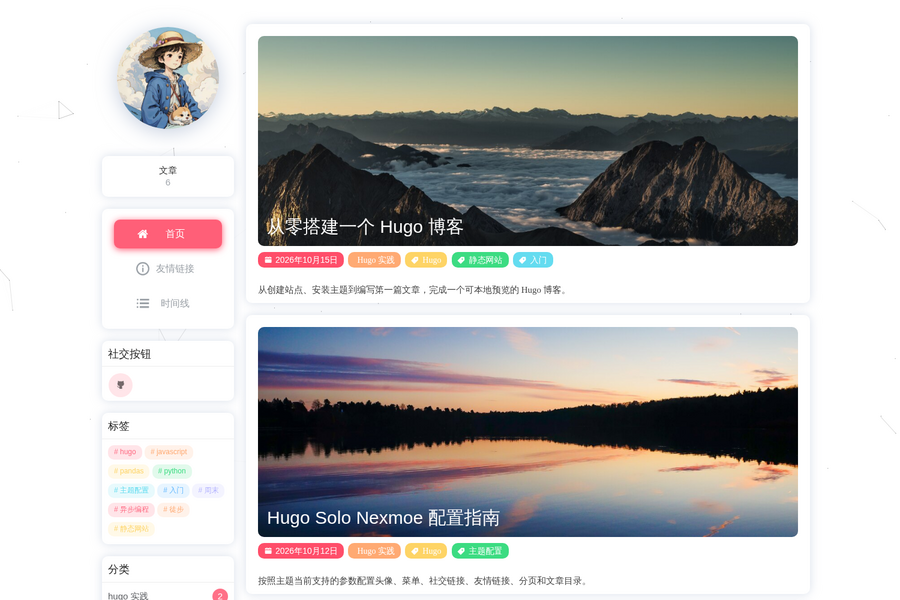
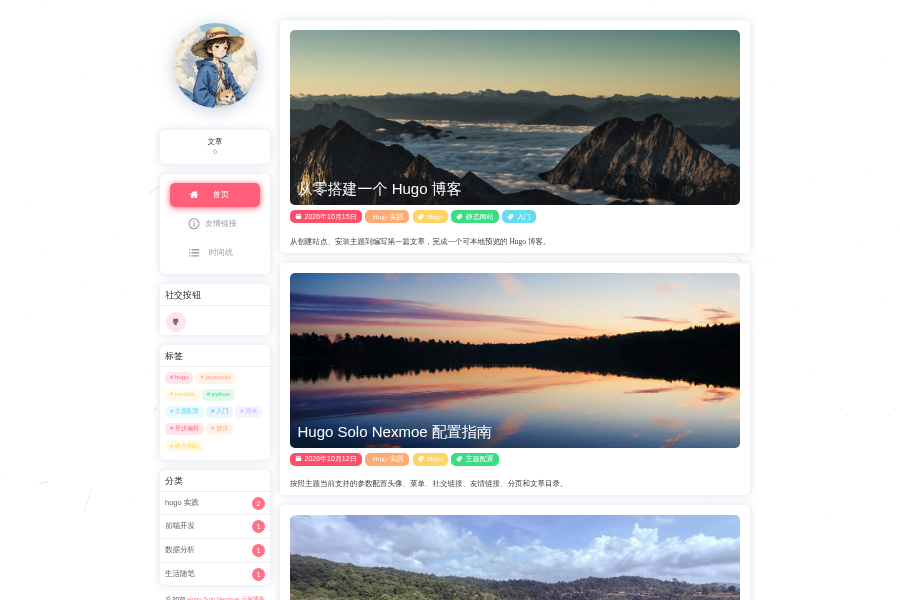
docs: improve theme thumbnail framing

diff --git a/docs/superpowers/plans/2026-10-19-theme-preview-screenshots.md b/docs/superpowers/plans/2026-10-19-theme-preview-screenshots.md
@@ -4,7 +4,7 @@
 
 **Goal:** Replace both theme preview PNGs with current, PR-compliant native-viewport captures of the deployed example site.
 
-**Architecture:** Use installed headless Google Chrome to capture the live home page at 1500 × 1000, then proportionally resize that complete desktop composition to 900 × 600. Wait five seconds of virtual time for lazy images, the external avatar, fonts, and Canvas initialization, then validate dimensions and inspect both images before committing.
+**Architecture:** Use installed headless Google Chrome for a 1500 × 1000 main capture and an 1800 × 1200 desktop virtual viewport rendered at device scale 0.5 for the 900 × 600 thumbnail. Wait five seconds of virtual time for lazy images, the external avatar, fonts, and Canvas initialization, then validate dimensions and inspect both images before committing.
 
 **Tech Stack:** Google Chrome headless mode, ImageMagick `identify`, Hugo demo on GitHub Pages, Git.
 
@@ -13,7 +13,7 @@
 ## File Structure
 
 - Replace `images/screenshot.png` with a 1500 × 1000 desktop capture.
-- Replace `images/tn.png` with a 900 × 600 proportional copy of the complete desktop capture.
+- Replace `images/tn.png` with a 900 × 600 desktop-layout capture showing two complete posts and the beginning of the third.
 - Do not create scripts or retain Chrome profile/cache data in the repository.
 
 ### Task 1: Capture the current deployed homepage
@@ -65,15 +65,26 @@ google-chrome \
 
 Expected: Chrome exits successfully and writes a page-only PNG without browser chrome.
 
-- [ ] **Step 4: Resize the complete desktop capture to 900 × 600**
+- [ ] **Step 4: Capture the desktop-layout 900 × 600 thumbnail**
 
 Run:
 
 ```bash
-convert images/screenshot.png -filter Lanczos -resize 900x600 images/tn.png
+preview_profile_small="$(mktemp -d /tmp/hugo-preview-small.XXXXXX)"
+google-chrome \
+  --headless=new \
+  --no-sandbox \
+  --disable-gpu \
+  --hide-scrollbars \
+  --force-device-scale-factor=0.5 \
+  --window-size=1800,1200 \
+  --virtual-time-budget=5000 \
+  --user-data-dir="$preview_profile_small" \
+  --screenshot="$(pwd)/images/tn.png" \
+  "https://zhangzhuo0705.github.io/hugo-solo-nexmoe/"
 ```
 
-Expected: ImageMagick writes a 900 × 600 PNG with the same complete composition as the desktop screenshot.
+Expected: Chrome writes a 900 × 600 PNG that retains the desktop layout and shows more vertical content than a direct resize of the main screenshot.
 
 - [ ] **Step 5: Validate format, dimensions, aspect ratio, and README reference**
 
@@ -91,7 +102,7 @@ Expected: every command exits with status 0.
 
 - [ ] **Step 6: Inspect both images visually**
 
-Open `images/screenshot.png` and `images/tn.png` at original detail. Confirm both show the current avatar, sidebar, landscape covers, first two article cards, current metadata, and theme navigation; and contain no placeholder blocks, old titles, browser chrome, clipping, distortion, or loading failures.
+Open `images/screenshot.png` and `images/tn.png` at original detail. Confirm the thumbnail shows the current avatar, complete sidebar, first two complete article cards, and the beginning of the third; and contains no placeholder blocks, old titles, browser chrome, distortion, or loading failures.
 
 - [ ] **Step 7: Review and commit the focused diff**
 

diff --git a/docs/superpowers/specs/2026-10-19-theme-preview-screenshots-design.md b/docs/superpowers/specs/2026-10-19-theme-preview-screenshots-design.md
@@ -19,22 +19,23 @@ mockups, watermarks, and added labels are excluded.
 
 ## Output Files
 
-Create one native desktop capture and one proportional derivative:
+Create two desktop-layout captures with different virtual viewports:
 
 - `images/screenshot.png`: 1500 × 1000 pixels
-- `images/tn.png`: 900 × 600 pixels, resized from the desktop capture
+- `images/tn.png`: 900 × 600 pixels, rendered from an 1800 × 1200 virtual viewport at a 0.5 device scale factor
 
-Both files use the required 3:2 aspect ratio. The thumbnail is downscaled from
-the complete 1500 × 1000 desktop screenshot so it retains the sidebar, avatar,
-and first two article cards instead of switching to the narrower responsive
-layout and showing only the first article.
+Both files use the required 3:2 aspect ratio. The larger virtual viewport keeps
+the desktop sidebar, avatar, and readable article cards while fitting the first
+two complete posts and the beginning of the third into the thumbnail. It avoids
+both the mobile single-card framing and the illegible whole-page overview.
 
 ## Capture Method
 
-Use an installed headless Chromium-compatible browser to capture the page at
-1500 × 1000. Disable browser chrome, wait for network activity to settle, and
-allow time for the Canvas background and lazy-loaded images. Use ImageMagick to
-resize that PNG proportionally to 900 × 600 without cropping or distortion.
+Use an installed headless Chromium-compatible browser for both captures. The
+main image uses a 1500 × 1000 viewport at device scale 1. The thumbnail uses an
+1800 × 1200 virtual viewport at device scale 0.5, producing a 900 × 600 PNG
+while retaining desktop layout. Both captures wait for the Canvas background
+and lazy-loaded images and exclude browser chrome.
 
 If the online page cannot be captured reliably, build and serve the same commit
 locally with the production base URL shape, then use the local server. Do not
